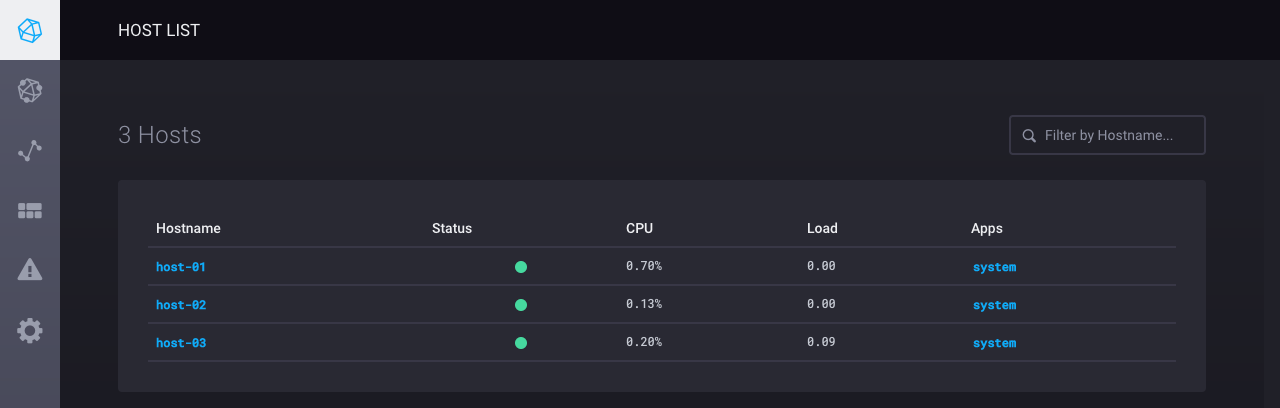
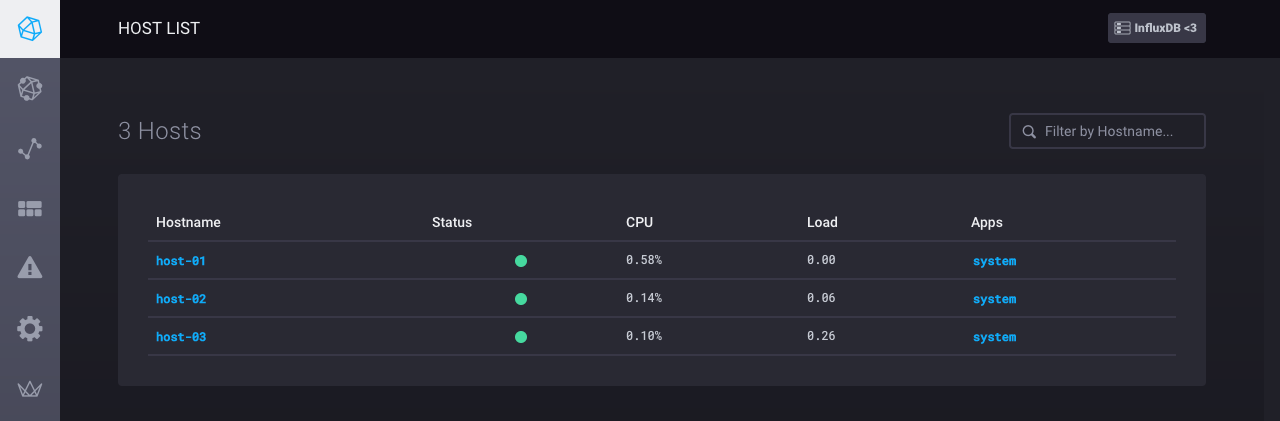
Update images

diff --git a/docs/GETTING_STARTED.md b/docs/GETTING_STARTED.md
@@ -13,7 +13,7 @@ It lists every host that is sending [Telegraf](https://github.com/influxdata/tel
 ![Host List](https://github.com/influxdata/chronograf/blob/master/docs/images/host-list-gs.png)
 
 The Chronograf instance shown above is connected to two hosts (`telegraf-narnia` and `telegraf-neverland`).
-The first host is using 0.43%	of its total CPU and has a load of 0.00.
+The first host is using 0.35%	of its total CPU and has a load of 0.00.
 It has one configured app: `system`.
 Apps are Telegraf [input plugins](https://github.com/influxdata/telegraf#input-plugins) that have dashboard templates in Chronograf.
 
@@ -23,7 +23,8 @@ Here's the dashboard template for Telegraf's [system stats](https://github.com/i
 
 ![System Graph Layout](https://github.com/influxdata/chronograf/blob/master/docs/images/system-layout-gs.gif)
 
-Hover over the graphs to get additional information about the data, and select alternative time ranges for the graphs by using the time selector in the top right corner.
+Hover over the graphs to get additional information about the data.
+In addition, select alternative refresh intervals, alternative time ranges, and enter presentation mode with the icons in the top right corner.
 
 See the [README](https://github.com/influxdata/chronograf#dashboard-templates) for a complete list of the apps supported by Chronograf.
 
@@ -44,7 +45,7 @@ Paste an existing [InfluxQL](https://docs.influxdata.com/influxdb/latest/query_l
 ![Raw Editor](https://github.com/influxdata/chronograf/blob/master/docs/images/raw-editor-gs.gif)
 
 ### Other Features
-View query results in tabular format (1) and easily alter the query's time range with the time range selector (2):
+Select an alternative refresh interval (1), an alternative time range (2), and view query results in tabular format (3):
 
 ![Data Exploration Extras](https://github.com/influxdata/chronograf/blob/master/docs/images/data-exploration-extras-gs.png)
 
@@ -108,4 +109,3 @@ Chronograf-friendly alert rule.
 >
 * Currently, the Alerta TICKscript parser requires users to **paste** their existing TICKscript in the text input. The parser does not support manually entering or editing a TICKscript.
 * The parser requires users to whitespace delimit any services listed in the TICKscript's [`.services()` attribute](https://docs.influxdata.com/kapacitor/latest/nodes/alert_node/#alerta-services).
-master

diff --git a/docs/use_cases.md b/docs/use_cases.md
@@ -110,7 +110,7 @@ instance, Chronograf uses Telegraf's `host` tag to populate the [HOST LIST](http
 
 The system stats dashboard template shows the CPU, Disk, and Memory metrics for the selected hostname:
 
-![Dashboard Template](https://github.com/influxdata/chronograf/blob/master/docs/images/template-dashboard-usecase.png)
+![Dashboard Template](https://github.com/influxdata/chronograf/blob/master/docs/images/template-dashboard-usecase.gif)
 
 Finally, you can create queries in the [Data Explorer](https://github.com/influxdata/chronograf/blob/master/docs/GETTING_STARTED.md#data-explorer) that graph results per hostname:
 
